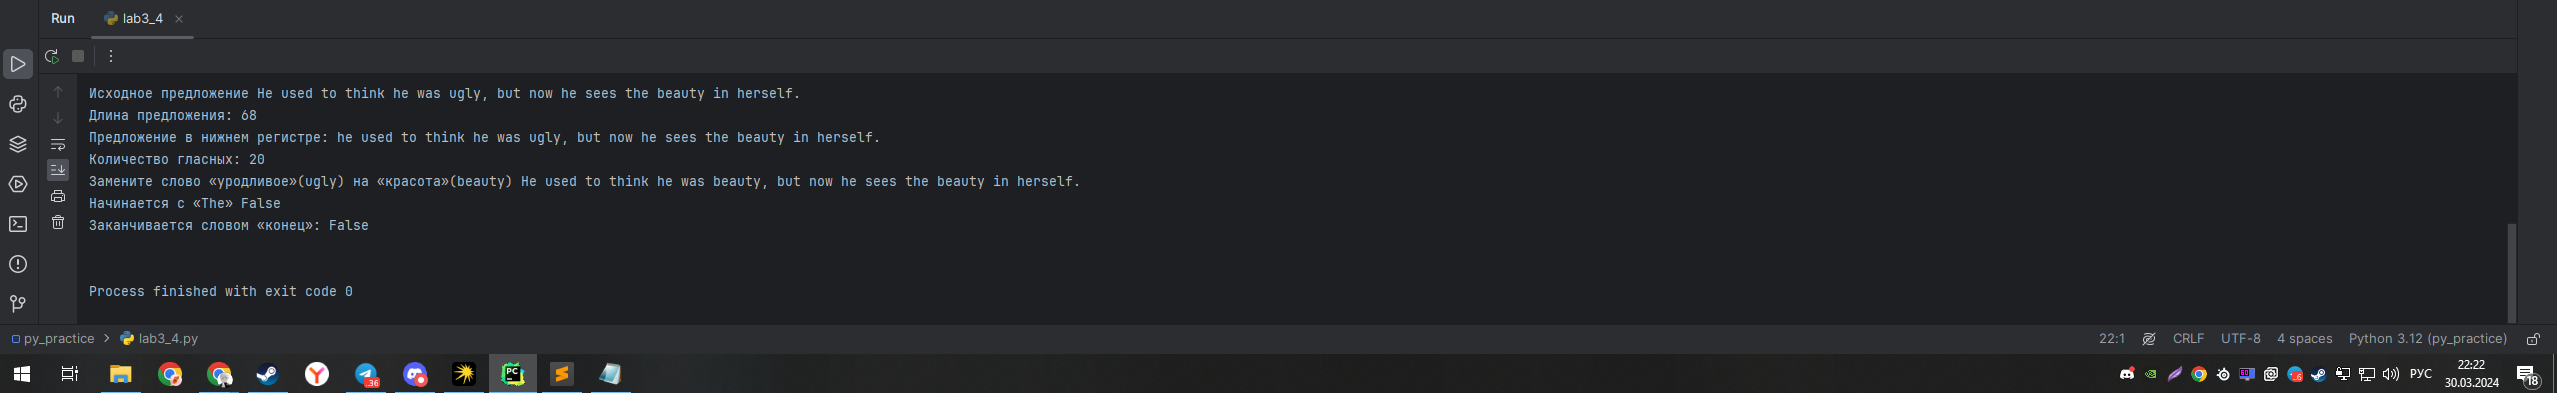
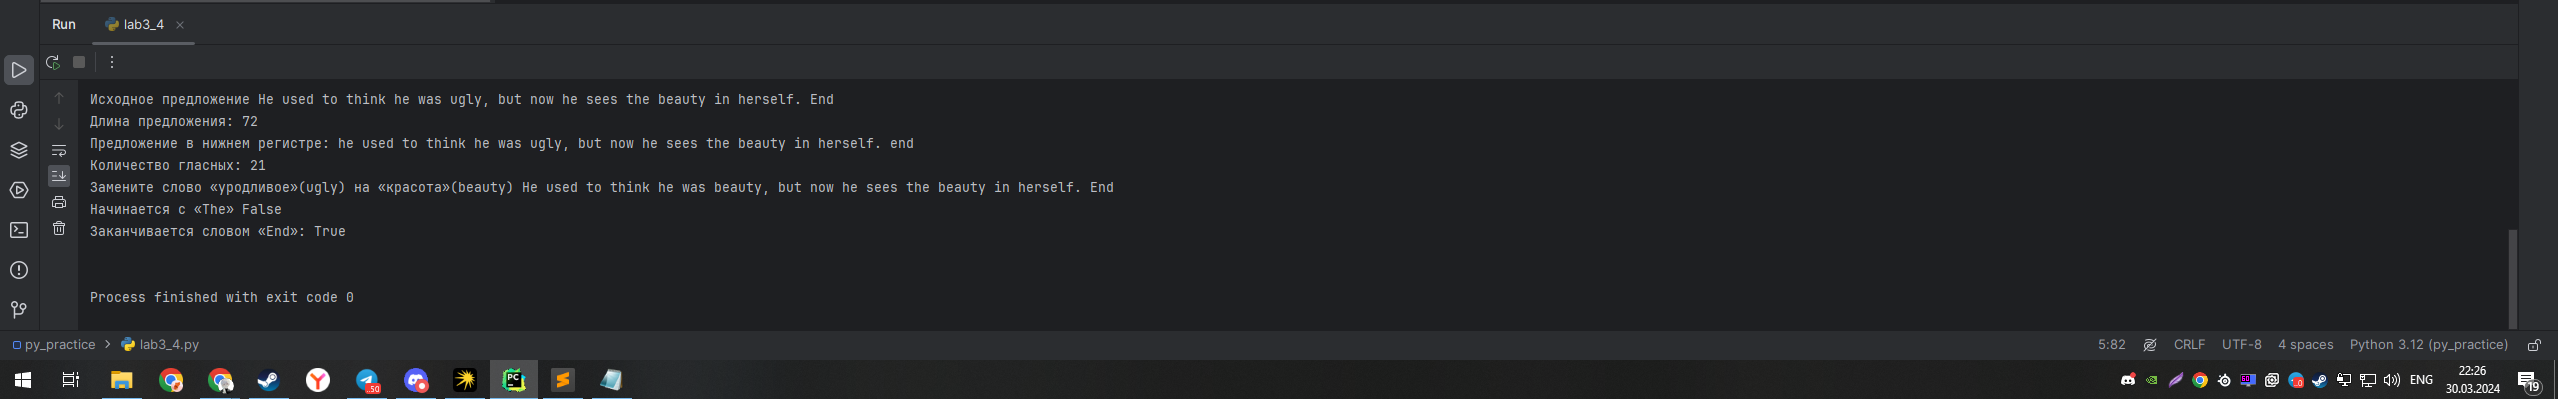
GG

diff --git a/lab3_4.py b/lab3_4.py
@@ -1,12 +1,10 @@
 def main():
     sentences = [
         "London is the capital of the United Kingdom",
-        "Oh my god, I'm so tired of doing these DIY jobs.",
-        "He used to think he was ugly, but now he sees the beauty in herself."
+        "Oh my god, I'm so tired of doing these DIY jobs...",
+        "He used to think he was ugly, but now he sees the beauty in herself. End"
     ]
-
     vowels = "aeiou"
-
     for sentence in sentences:
         print("Исходное предложение", sentence)
         print("Длина предложения:", len(sentence))
@@ -14,8 +12,7 @@ def main():
         print("Количество гласных:", sum(1 for char in sentence if char.lower() in vowels))
         print("Замените слово «уродливое»(ugly) на «красота»(beauty)", sentence.replace("ugly", "beauty"))
         print("Начинается с «The»", sentence.startswith("The"))
-        print("Заканчивается словом «конец»:", sentence.endswith("end"))
+        print("Заканчивается словом «End»:", sentence.endswith("End"))
         print()
-
 if __name__ == "__main__":
     main()
